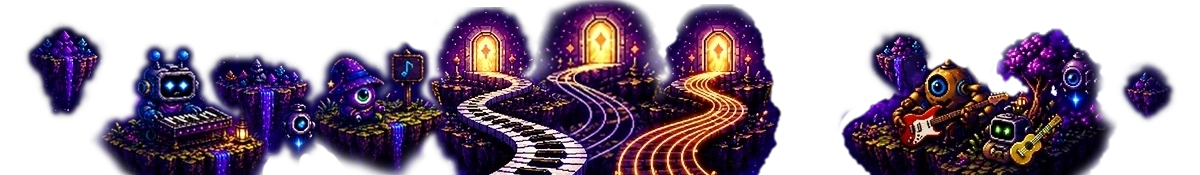
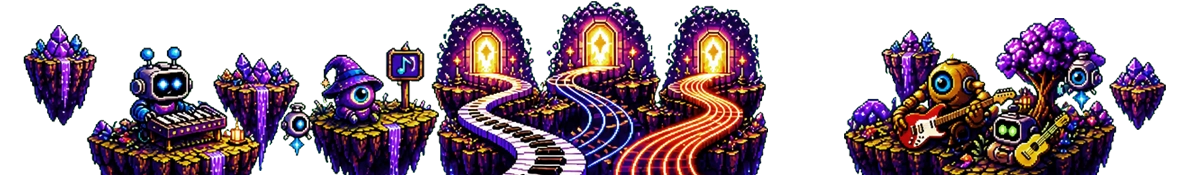
Fix guitar and ukulele fretboard string orientation

diff --git a/script.js b/script.js
@@ -2987,6 +2987,14 @@ function shouldShowGuitarFretLabel(fret, fretCount) {
   return fretCount <= getStringedInstrumentFretRanges().compact || [3, 5, 7, 9, 12].includes(fret);
 }
 
+function guitarVisualRowIndexForString(stringIndex, stringCount = getStringedInstrumentTunings().length) {
+  return stringCount - 1 - stringIndex;
+}
+
+function guitarVisualStringY(stringIndex, top, stringGap, stringCount = getStringedInstrumentTunings().length) {
+  return top + guitarVisualRowIndexForString(stringIndex, stringCount) * stringGap;
+}
+
 function guitarActiveFretRange(strings) {
   const fretted = strings
     .map((string) => string.fret)
@@ -3022,10 +3030,12 @@ function guitarBarreGeometry(voicing, fretWindow, left, top, stringGap, fretWidt
     return null;
   }
 
+  const stringYPositions = strings.map((stringIndex) => guitarVisualStringY(stringIndex, top, stringGap, stringCount));
+
   return {
     x: left + (visibleFretIndex + 0.5) * fretWidth,
-    y1: top + Math.min(...strings) * stringGap,
-    y2: top + Math.max(...strings) * stringGap,
+    y1: Math.min(...stringYPositions),
+    y2: Math.max(...stringYPositions),
     label: `BARRE ${barre.fret}F`,
   };
 }
@@ -3128,7 +3138,7 @@ function createGuitarChordDiagram(notes, preserveLabels = false, isPlaying = fal
   });
 
   voicing.strings.forEach((string, index) => {
-    const y = top + index * stringGap;
+    const y = guitarVisualStringY(index, top, stringGap, stringCount);
     const line = document.createElementNS("http://www.w3.org/2000/svg", "line");
 
     line.setAttribute("class", "guitar-string");